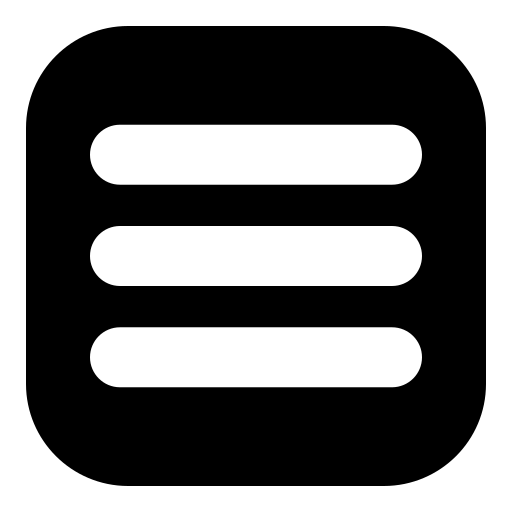
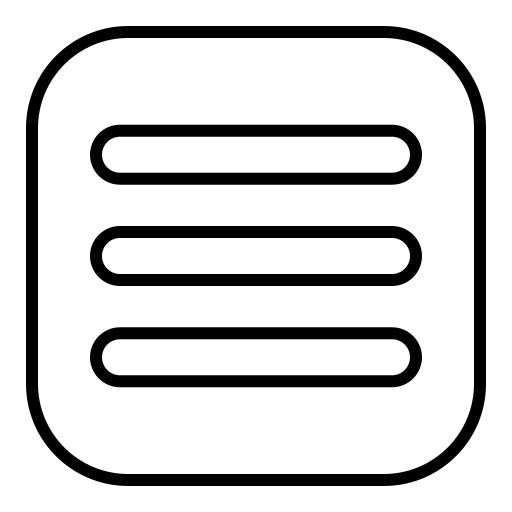
modifique header/agregue menu hamburguesa

diff --git a/css/style.css b/css/style.css
@@ -63,11 +63,18 @@ ul {
         font-size: 3rem;
         font-family: 'Poppins', sans-serif;
         color: #ffffff; }
+  .header__imagen__hamburguesa {
+    width: 7rem;
+    height: 7rem;
+    display: none; }
+  .header__hamburguesa {
+    display: none; }
   .header__nav__lista {
     display: flex;
     flex-wrap: wrap;
     font-family: 'poppins',sans-serif;
-    list-style: none; }
+    list-style: none;
+    transition: 1s; }
     .header__nav__lista a {
       padding: 2.5rem;
       font-size: 2rem;
@@ -278,12 +285,12 @@ los input de cada seccion para buscar determinado servicio.*/
   width: 100%;
   height: 100vh;
   margin-left: 2rem; }
+  .contenido__principal__titulo {
+    font-size: 10rem;
+    width: 70rem; }
   .contenido__principal img {
     width: 40rem;
     height: 33rem; }
-  .contenido__principal h2 {
-    font-size: 10rem;
-    width: 70rem; }
 
 /*Main de la seccion destinos.html*/
 .grid__container {
@@ -922,10 +929,7 @@ los input de cada seccion para buscar determinado servicio.*/
   .header {
     height: auto; }
   .autos__container__flex {
-    width: 95%; }
-  .formulario__container {
-    height: 65rem;
-    width: 90%; } }
+    width: 95%; } }
 
 @media (max-width: 1060px) {
   .header .header__nav__contenedor {
@@ -976,18 +980,43 @@ los input de cada seccion para buscar determinado servicio.*/
 /*TABLET */
 @media (max-width: 768px) {
   .header .header__nav__contenedor {
-    height: auto; }
+    height: auto;
+    position: fixed;
+    flex-direction: row;
+    background-color: rgba(0, 0, 0, 0.959);
+    z-index: 10; }
   .header__nav__lista {
-    flex-wrap: wrap;
+    display: flex;
+    flex-direction: column;
+    align-items: center;
+    position: fixed;
     justify-content: space-evenly;
-    margin: 3rem 0; }
+    gap: 3rem;
+    position: absolute;
+    left: -200%;
+    transition: 1.4s;
+    width: 100%;
+    height: 35rem;
+    background-color: rgba(0, 0, 0, 0.959); }
+  .header__imagen__hamburguesa {
+    display: block; }
+  .header__hamburguesa:checked ~ .header__nav__lista {
+    left: 0;
+    top: 7rem; }
+  .contenido__principal__titulo {
+    font-size: 8.5rem; }
   .buscador .buscador__container .buscador__de__vuelos__eleccion, .buscador__autos__eleccion {
     margin-bottom: 1rem; }
   .grid__container .ofertas__mes {
     width: 66rem;
     height: 91rem; }
   .ofertas__lugares__promo1, .ofertas__lugares__promo2, .ofertas__lugares__promo3, .ofertas__lugares__promo4 {
-    margin-bottom: 5rem; } }
+    margin-bottom: 5rem; }
+  .formulario {
+    height: 90rem; }
+  .formulario__container {
+    height: 49rem;
+    width: 90%; } }
 
 @media (max-width: 700px) {
   .buscador .buscador__container__checkboxboton {
@@ -1037,8 +1066,6 @@ los input de cada seccion para buscar determinado servicio.*/
     height: auto; } }
 
 @media (max-width: 630px) {
-  .header__nav__lista {
-    gap: 3rem; }
   .contenido__principal {
     margin-left: 0; }
   .contenido__principal h2 {
@@ -1143,11 +1170,6 @@ los input de cada seccion para buscar determinado servicio.*/
   .header__logo {
     display: flex;
     justify-content: flex-start; }
-  .header__nav__lista {
-    flex-direction: column;
-    align-items: flex-start; }
-    .header__nav__lista li {
-      margin: 0.8rem; }
   .buscador .buscador__container__checkboxboton {
     flex-direction: column;
     align-items: center;

diff --git a/sass/partials/_medias.scss b/sass/partials/_medias.scss
@@ -114,10 +114,8 @@
     .autos__container__flex{
         width: 95%;
     }
-    .formulario__container{
-        height: 65rem;
-        width: 90%;
-    }
+    
+    
 }
 
 @media(max-width:1060px){
@@ -195,13 +193,39 @@
 @media(max-width:768px){
     .header .header__nav__contenedor{
         height: auto;
+        position: fixed;
+        flex-direction: row;
+        background-color: rgba(0, 0, 0, 0.959);
+        z-index: 10;
     }
     .header__nav__lista {
-        flex-wrap: wrap;
+        display: flex;
+        flex-direction: column;
+        align-items: center;
+        position: fixed;
         justify-content: space-evenly;
-        margin: 3rem 0;
+        gap: 3rem;
+        position: absolute;
+        left: -200%;
+        transition: 1.4s;
+        width: 100%;
+        height: 35rem;
+        background-color:rgba(0, 0, 0, 0.959);
+        
+    }
+    .header__imagen__hamburguesa{
+        display: block;
+    }
+    .header__hamburguesa:checked ~ .header__nav__lista{
+        
+        left: 0;
+        top: 7rem;
         
         
+        
+    }
+    .contenido__principal__titulo{
+        font-size: 8.5rem;
     }
     
    
@@ -216,6 +240,15 @@
     .ofertas__lugares__promo1,.ofertas__lugares__promo2,.ofertas__lugares__promo3,.ofertas__lugares__promo4{
         margin-bottom: 5rem;
      }
+    .formulario{
+        height: 90rem;
+    }
+    
+    .formulario__container{
+        height: 49rem;
+        width: 90%;
+    }
+    
     
 }
 @media(max-width:700px){
@@ -293,9 +326,7 @@
 
 
 @media(max-width:630px){
-    .header__nav__lista{
-        gap: 3rem;
-    }
+    
     .contenido__principal{
         margin-left: 0;
     }
@@ -461,14 +492,7 @@
        
         
     }
-    .header__nav__lista{
-        flex-direction: column;
-        align-items: flex-start;
-        li{
-            margin:0.8rem;
-            
-        }
-    }
+    
     
     .buscador .buscador__container__checkboxboton{
         flex-direction: column;

diff --git a/destinos/destinos.html b/destinos/destinos.html
@@ -29,16 +29,19 @@
                     </section>
                 
                     <section class="header__nav">
+                        <label for="btn-hamburguesa" class="header__label">
+                            <img src="../imagenes/menu.svg" alt="menu hanburguesa" class="header__imagen__hamburguesa">
+                        </label>
+                        <input type="checkbox" id="btn-hamburguesa" class="header__hamburguesa">   
+                            <ul class="header__nav__lista">
+                                <li><a href="../index.html">Inicio</a></li>
+                                <li><a href="./destinos.html">Destinos</a></li>
+                                <li><a href="../hoteles/hoteles.html">Hoteles</a></li>
+                                <li><a href="../autos/autos.html">Autos</a></li>
+                                <li><a href="../formularios/contacto.html">Contacto</a></li>
+                            </ul>
                     
-                        <ul class="header__nav__lista">
-                            <li><a href="../index.html">Inicio</a></li>
-                            <li><a href="./destinos.html">Destinos</a></li>
-                            <li><a href="../hoteles/hoteles.html">Hoteles</a></li>
-                            <li><a href="../autos/autos.html">Autos</a></li>
-                            <li><a href="../formularios/contacto.html">Contacto</a></li>
-                        </ul>
-                
-                    </section>
+                        </section>
                </nav> 
                
                <section class="buscador">

diff --git a/formularios/contacto.html b/formularios/contacto.html
@@ -29,16 +29,19 @@
                  </section>
              
                  <section class="header__nav">
-                 
-                     <ul class="header__nav__lista">
-                         <li><a href="../index.html">Inicio</a></li>
-                         <li><a href="../destinos/destinos.html">Destinos</a></li>
-                         <li><a href="../hoteles/hoteles.html">Hoteles</a></li>
-                         <li><a href="../autos/autos.html">Autos</a></li>
-                         <li><a href="../formularios/contacto.html">Contacto</a></li>
-                     </ul>
-             
-                 </section>
+                    <label for="btn-hamburguesa" class="header__label">
+                        <img src="../imagenes/menu.svg" alt="menu hanburguesa" class="header__imagen__hamburguesa">
+                    </label>
+                    <input type="checkbox" id="btn-hamburguesa" class="header__hamburguesa">   
+                        <ul class="header__nav__lista">
+                            <li><a href="../index.html">Inicio</a></li>
+                            <li><a href="../destinos/destinos.html">Destinos</a></li>
+                            <li><a href="../hoteles/hoteles.html">Hoteles</a></li>
+                            <li><a href="../autos/autos.html">Autos</a></li>
+                            <li><a href="contacto.html">Contacto</a></li>
+                        </ul>
+                
+                    </section>
             </nav>
         </header> 
         <main class="formulario-contenedor-general">

diff --git a/autos/autos.html b/autos/autos.html
@@ -27,16 +27,19 @@
             </section>
         
             <section class="header__nav">
+                <label for="btn-hamburguesa" class="header__label">
+                    <img src="../imagenes/menu.svg" alt="menu hanburguesa" class="header__imagen__hamburguesa">
+                </label>
+                <input type="checkbox" id="btn-hamburguesa" class="header__hamburguesa">   
+                    <ul class="header__nav__lista">
+                        <li><a href="../index.html">Inicio</a></li>
+                        <li><a href="../destinos/destinos.html">Destinos</a></li>
+                        <li><a href="../hoteles/hoteles.html">Hoteles</a></li>
+                        <li><a href="./autos.html">Autos</a></li>
+                        <li><a href="../formularios/contacto.html">Contacto</a></li>
+                    </ul>
             
-                <ul class="header__nav__lista">
-                    <li><a href="../index.html">Inicio</a></li>
-                    <li><a href="../destinos/destinos.html">Destinos</a></li>
-                    <li><a href="../hoteles/hoteles.html">Hoteles</a></li>
-                    <li><a href="./autos.html">Autos</a></li>
-                    <li><a href="../formularios/contacto.html">Contacto</a></li>
-                </ul>
-        
-            </section>
+                </section>
        </nav> 
         <section class="buscador">
            

diff --git a/hoteles/hoteles.html b/hoteles/hoteles.html
@@ -26,16 +26,19 @@
             </section>
         
             <section class="header__nav">
+                <label for="btn-hamburguesa" class="header__label">
+                    <img src="../imagenes/menu.svg" alt="menu hanburguesa" class="header__imagen__hamburguesa">
+                </label>
+                <input type="checkbox" id="btn-hamburguesa" class="header__hamburguesa">   
+                    <ul class="header__nav__lista">
+                        <li><a href="../index.html">Inicio</a></li>
+                        <li><a href="../destinos/destinos.html">Destinos</a></li>
+                        <li><a href="./hoteles.html">Hoteles</a></li>
+                        <li><a href="../autos/autos.html">Autos</a></li>
+                        <li><a href="../formularios/contacto.html">Contacto</a></li>
+                    </ul>
             
-                <ul class="header__nav__lista">
-                    <li><a href="../index.html">Inicio</a></li>
-                    <li><a href="../destinos/destinos.html">Destinos</a></li>
-                    <li><a href="../hoteles/hoteles.html">Hoteles</a></li>
-                    <li><a href="../autos/autos.html">Autos</a></li>
-                    <li><a href="../formularios/contacto.html">Contacto</a></li>
-                </ul>
-        
-            </section>
+                </section>
        </nav>
        
 

diff --git a/index.html b/index.html
@@ -27,7 +27,10 @@
             
             
             <section class="header__nav">
-                
+            <label for="btn-hamburguesa" class="header__label">
+                <img src="./imagenes/menu.svg" alt="menu hanburguesa" class="header__imagen__hamburguesa">
+            </label>
+            <input type="checkbox" id="btn-hamburguesa" class="header__hamburguesa">   
                 <ul class="header__nav__lista">
                     <li><a href="./index.html">Inicio</a></li>
                     <li><a href="./destinos/destinos.html">Destinos</a></li>

diff --git a/sass/partials/_header.scss b/sass/partials/_header.scss
@@ -43,12 +43,22 @@
 
         
     }
+    &__imagen__hamburguesa{
+        width: 7rem;
+        height: 7rem;
+        display: none;
+    }
+    &__hamburguesa{
+        display: none;
+    }
+    
    
     &__nav__lista{
         display: flex;
         flex-wrap: wrap;
         font-family: 'poppins',sans-serif;
         list-style: none;
+        transition: 1s;
         a{
             padding: 2.5rem;
             font-size: map-get($font-size,"large");

diff --git a/sass/views/_index-main.scss b/sass/views/_index-main.scss
@@ -9,18 +9,16 @@
     flex-direction: column;
     justify-content: center;
     align-items: flex-start;
-    
     width: 100%;
     height: 100vh;
     margin-left: 2rem;
+    &__titulo{
+        font-size: 10rem;
+        width: 70rem;   
+    }
     img{
         width: 40rem;
         height: 33rem;
     }
-    h2{
-        font-size: 10rem;
-        width: 70rem;
-        
-        
-    }
+    
 }
